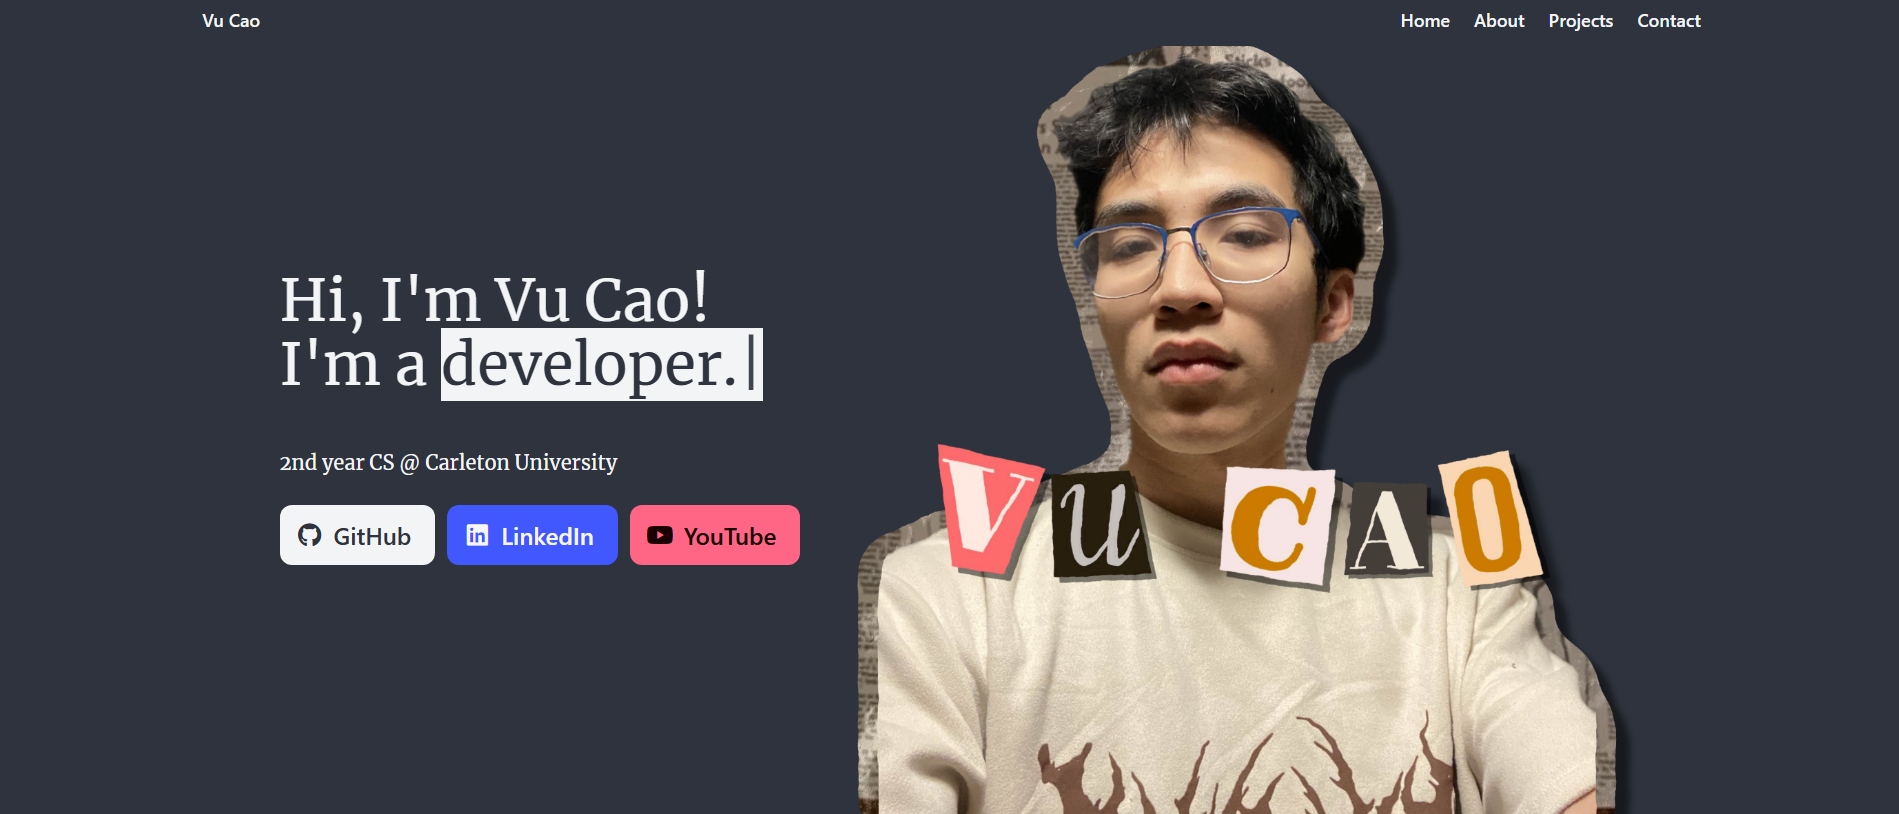
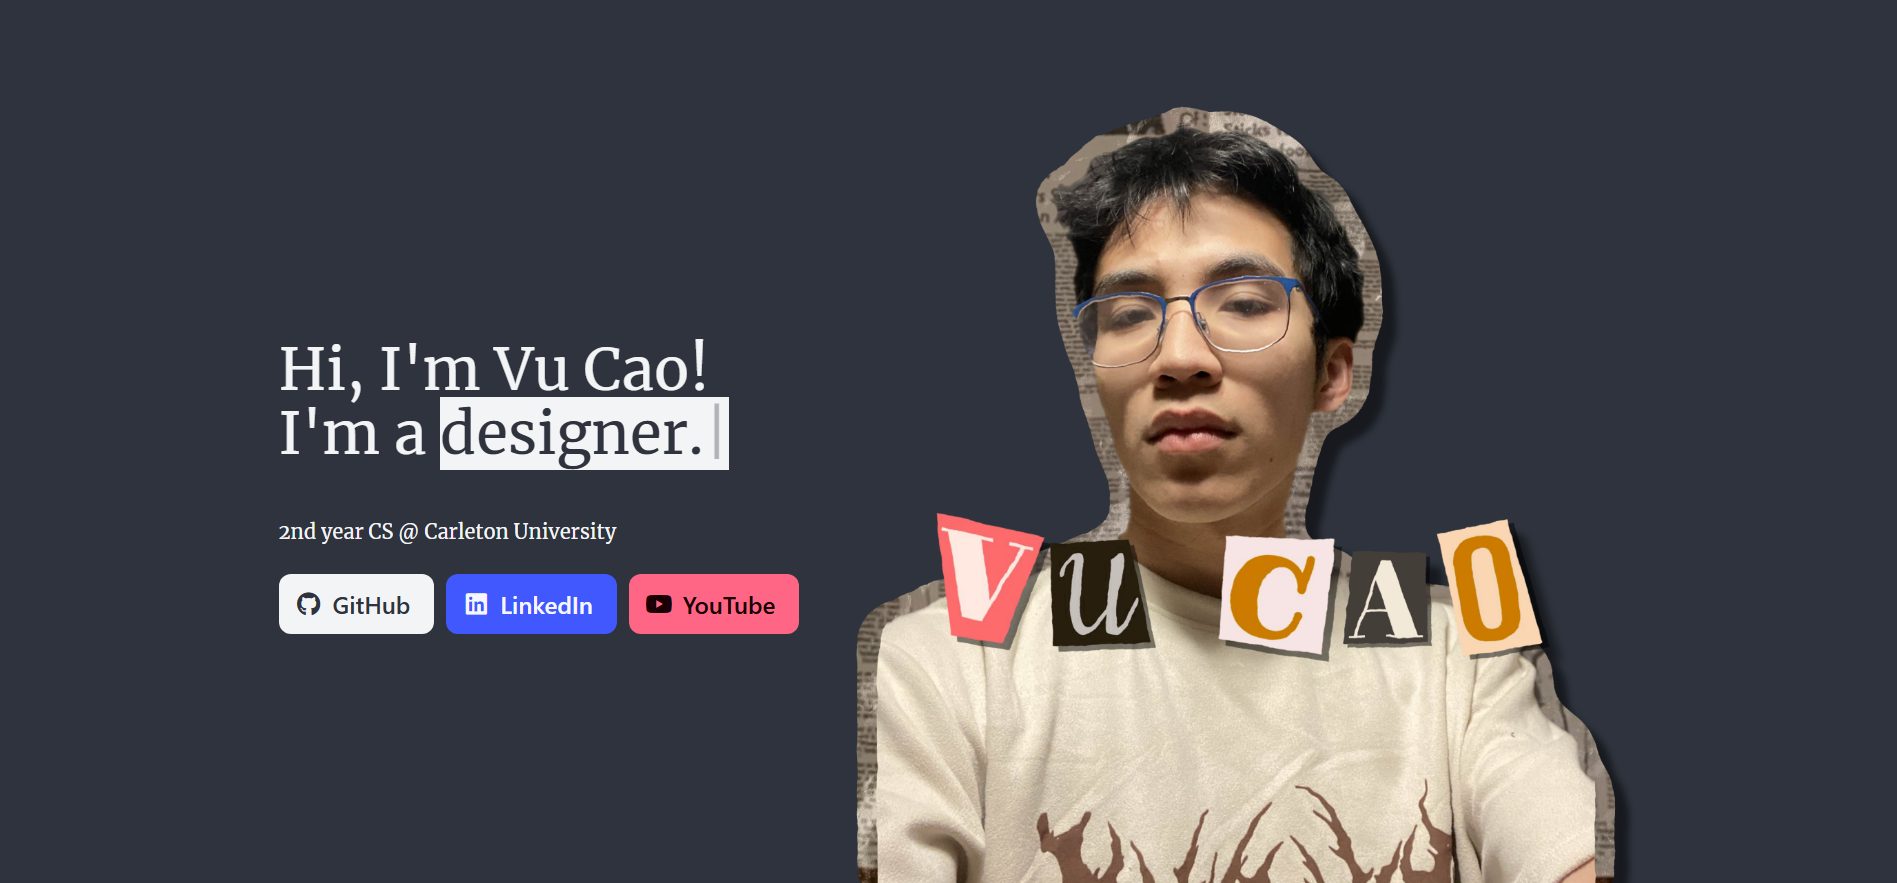
thumnbnail update

diff --git a/index.html b/index.html
@@ -23,7 +23,7 @@
 <meta property="og:type" content="website">
 <meta property="og:title" content="Vu Cao - Portfolio">
 <meta property="og:description" content="I’m a 2nd year Computer Science student exploring machine learning, music, and visual design. This is a collection of my personal and creative projects.">
-<meta property="og:image" content="https://opengraph.b-cdn.net/production/images/460ed659-5338-44ad-b903-ae7ff6a0a15c.png?token=gzE8cOr2GTC4rYYB8NEfvKmmDuZnjw2LfxUfSfrn1To&height=514&width=1200&expires=33271990280">
+<meta property="og:image" content="https://opengraph.b-cdn.net/production/images/af351b34-cba8-4d74-a8cb-febf87ed84b4.png?token=-GuxPdFeTlkKmWxbEzzEpStTm0175AaxBLI4n1Ce8Lk&height=559&width=1200&expires=33271991373">
 
 <!-- Twitter Meta Tags -->
 <meta name="twitter:card" content="summary_large_image">
@@ -31,7 +31,7 @@
 <meta property="twitter:url" content="https://mizly.design">
 <meta name="twitter:title" content="Vu Cao - Portfolio">
 <meta name="twitter:description" content="I’m a 2nd year Computer Science student exploring machine learning, music, and visual design. This is a collection of my personal and creative projects.">
-<meta name="twitter:image" content="https://opengraph.b-cdn.net/production/images/460ed659-5338-44ad-b903-ae7ff6a0a15c.png?token=gzE8cOr2GTC4rYYB8NEfvKmmDuZnjw2LfxUfSfrn1To&height=514&width=1200&expires=33271990280">
+<meta name="twitter:image" content="https://opengraph.b-cdn.net/production/images/af351b34-cba8-4d74-a8cb-febf87ed84b4.png?token=-GuxPdFeTlkKmWxbEzzEpStTm0175AaxBLI4n1Ce8Lk&height=559&width=1200&expires=33271991373">
 
 <!-- Meta Tags Generated via https://www.opengraph.xyz -->
   <style>
